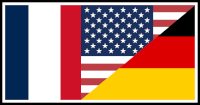
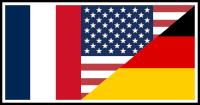
Audio Flags: Added Italian
new Flags:
IT
DE+IT
US+IT
US+DE+IT

Changed region(s): [[0.27, 0.0286, 0.33, 0.9714], [0.12, 0.0286, 0.18, 0.9714]]

diff --git a/home1800/overlays/README.md b/home1800/overlays/README.md
@@ -21,7 +21,7 @@ Combinations up to three flags, won't do more to combat clutter. Also, I only ne
 - english + german + any third language
 
 ## Flags ##
-wanted to automate the flag-combination generating to enable more combinations, but no willing to get into imagemagick at this moment
+wanted to automate the flag-combination generating to enable more combinations, but no willing to get into imagemagick at this moment. I've created templates with gimp.
 
 # Recent Ratings # 
 
